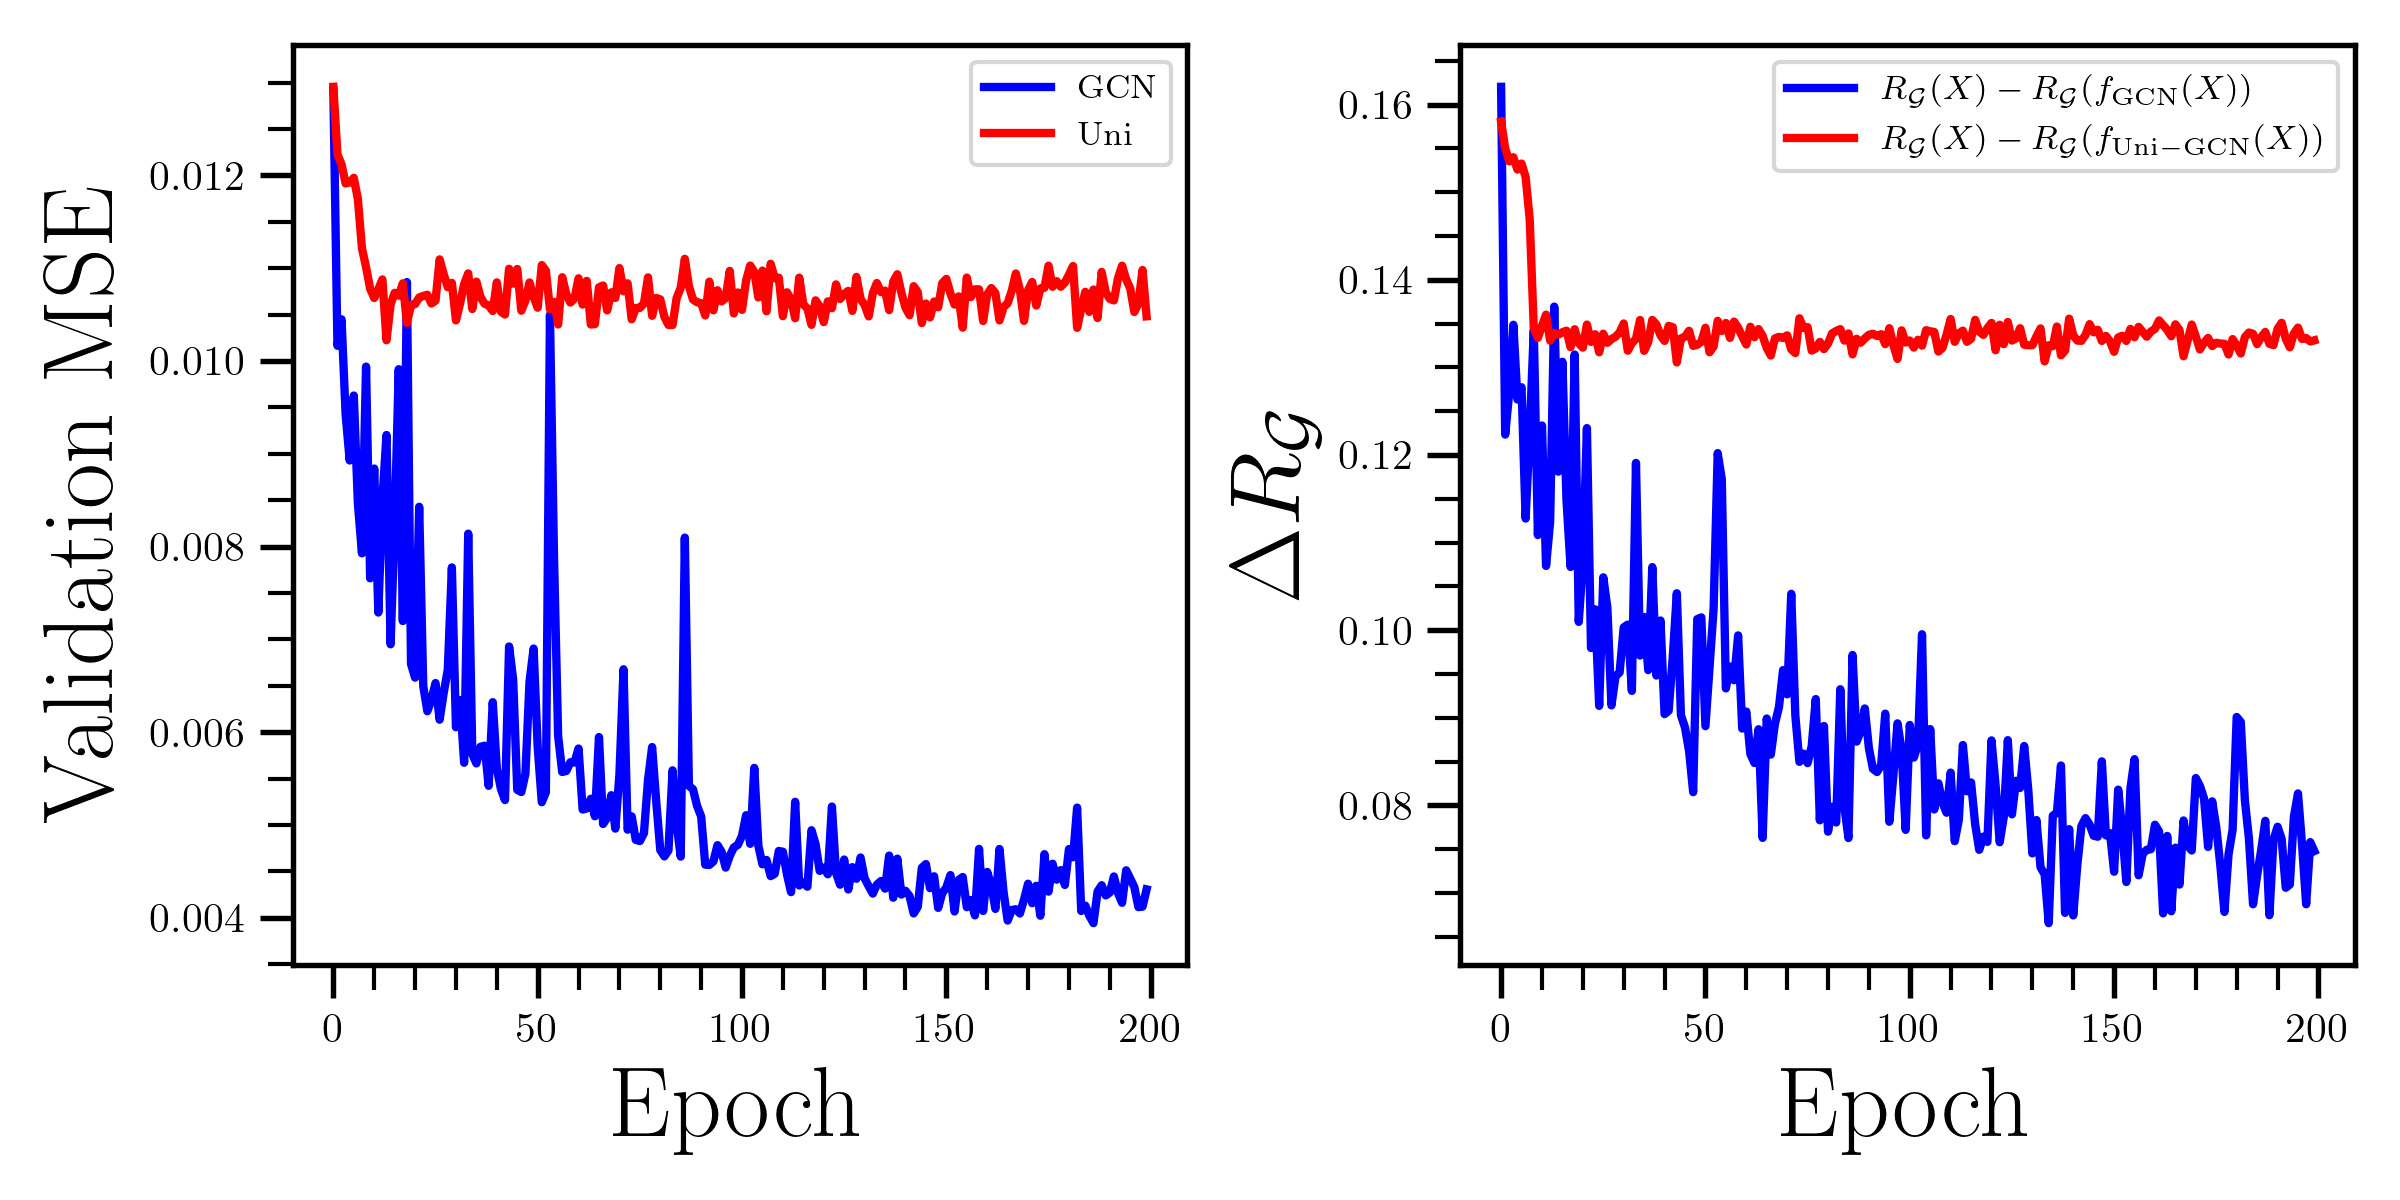
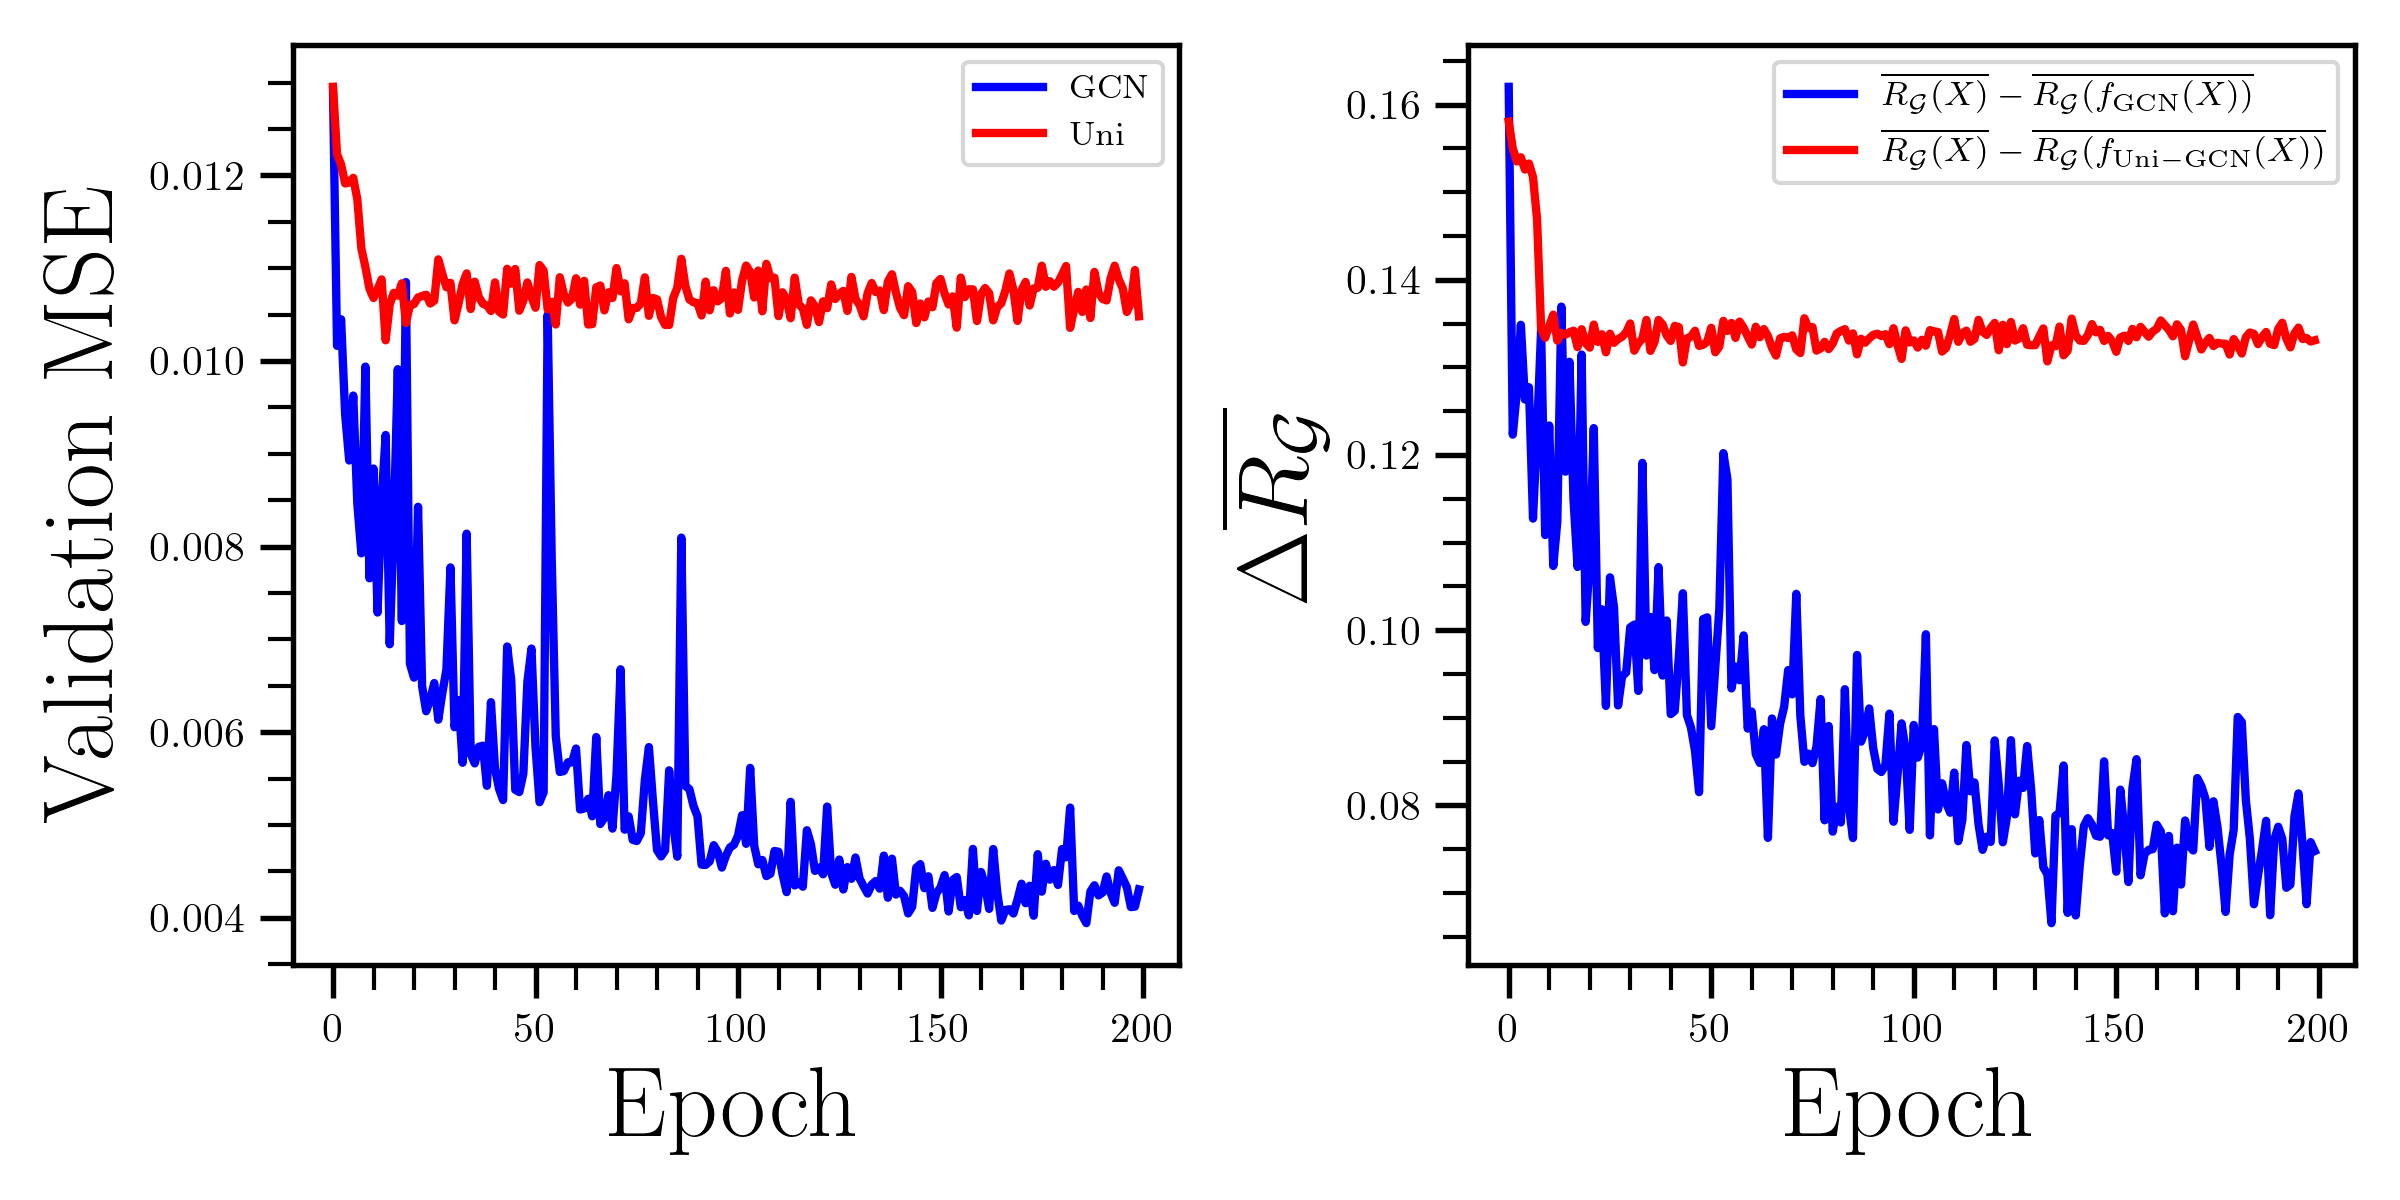
add overline bars

diff --git a/toy_heat_diffusion/eval.py b/toy_heat_diffusion/eval.py
@@ -86,7 +86,7 @@ def main():
         np.arange(num_epochs),
         val_rayleigh_x_GCN - val_rayleigh_xprime_GCN,
         color="blue",
-        label=r"$R_{\mathcal{G}}(X) - R_{\mathcal{G}}(f_{\rm GCN}(X))$",
+        label=r"$\overline{R_{\mathcal{G}}(X)} - \overline{R_{\mathcal{G}}(f_{\rm GCN}(X))}$",
         linewidth=2,
     )
 
@@ -94,12 +94,12 @@ def main():
         np.arange(num_epochs),
         val_rayleigh_x_UNI - val_rayleigh_xprime_UNI,
         color="red",
-        label=r"$R_{\mathcal{G}}(X) - R_{\mathcal{G}}(f_{\rm Uni-GCN}(X))$",
+        label=r"$\overline{R_{\mathcal{G}}(X)} - \overline{R_{\mathcal{G}}(f_{\rm Uni-GCN}(X))}$",
         linewidth=2,
     )
 
     ax[1].set_xlabel("Epoch", fontsize=24)
-    ax[1].set_ylabel(r"$\Delta R_{\mathcal{G}}$", fontsize=24)
+    ax[1].set_ylabel(r"$\Delta \overline{R_{\mathcal{G}}}$", fontsize=24)
     ax[1].legend()
 
     plt.tight_layout()
